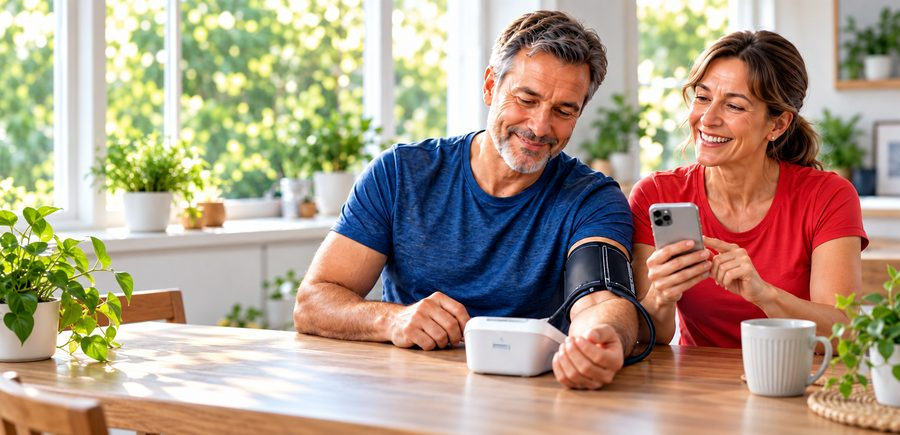
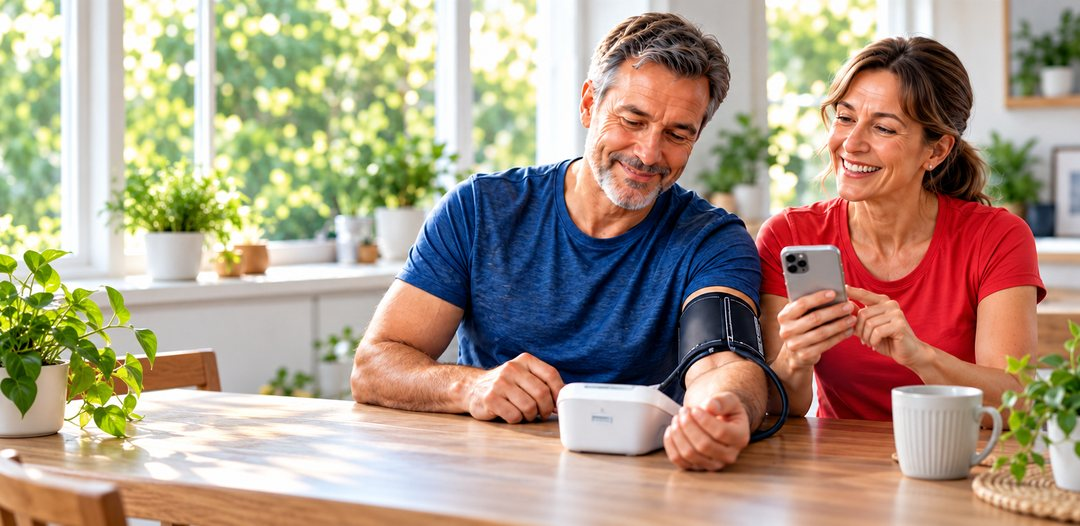
App page: 5 people photos unified to 1080x526 and shown uncut
Claude-Session: https://claude.ai/code/session_01V5Ds3NHwreF7Wtzgwk2T9U

diff --git a/app.html b/app.html
@@ -53,7 +53,7 @@
       <span class="small" style="font-size:15px" data-no>Picture 1 of 2</span>
     </div>
     <div class="col">
-      <img class="photo" src="/img/couple.jpg" alt="" width="900" height="438" loading="lazy">
+      <img class="photo" src="/img/photo-walk.jpg" alt="" width="1080" height="526" loading="lazy">
       <p class="pq">Brisk walking is a moderate-intensity form of walking. The WHO recommends 150–300 minutes a week. Keep an eye on your pace: 100+ steps a minute, or about 5 km/h. TOMfit starts you at the easier end.</p>
     </div>
   </section>
@@ -72,7 +72,7 @@
       <span class="small" style="font-size:15px" data-no>Picture 1 of 2</span>
     </div>
     <div class="col">
-      <img class="photo" src="/img/photo-health.jpg" alt="" width="900" height="438" loading="lazy">
+      <img class="photo" src="/img/photo-health.jpg" alt="" width="1080" height="526" loading="lazy">
       <p class="pq">I check my blood glucose and blood pressure at least once a day, I keep an eye on my weight and BMI, and I like to check the time between my last and first meal – all to be sure I am going in the right direction.</p>
     </div>
   </section>
@@ -91,7 +91,7 @@
       <span class="small" style="font-size:15px" data-no>Picture 1 of 2</span>
     </div>
     <div class="col">
-      <img class="photo" src="/img/photo-meds.jpg" alt="" width="900" height="438" loading="lazy">
+      <img class="photo" src="/img/photo-meds-supps.jpg" alt="" width="1080" height="526" loading="lazy">
       <p class="pq">It is not easy to remember all your medications and supplements. Your doctor or pharmacist asks “What do you take?” – and your mind goes blank. I know, because I had that problem too – but not any more. Register all your medications and supplements in the TOMfit app and have the full list in your pocket, ready when you need it.</p>
     </div>
   </section>
@@ -110,7 +110,7 @@
       <span class="small" style="font-size:15px" data-no>Picture 1 of 2</span>
     </div>
     <div class="col">
-      <img class="photo" src="/img/photo-exercise.jpg" alt="" width="900" height="438" loading="lazy">
+      <img class="photo" src="/img/photo-exercises.jpg" alt="" width="1080" height="526" loading="lazy">
       <p class="pq">The TOMfit app invites you to choose at least 3 very basic daily core exercises – 10 minutes at most – and at least 3 kettlebell exercises, 2–3 times a week. Read the safety notes and tips before you start. Charts show your progress.</p>
     </div>
   </section>
@@ -129,7 +129,7 @@
       <span class="small" style="font-size:15px" data-no>Picture 1 of 1</span>
     </div>
     <div class="col">
-      <img class="photo" src="/img/photo-settings.jpg" alt="" width="900" height="438" loading="lazy">
+      <img class="photo" src="/img/photo-settings.jpg" alt="" width="1080" height="526" loading="lazy">
       <p class="pq">The TOMfit app is very flexible – it is designed to work for you and with you. Adjust your baseline goals, switch off any part of the app you don’t use, set your kettlebell weight, and more.</p>
     </div>
   </section>

diff --git a/assets/site.css b/assets/site.css
@@ -119,7 +119,7 @@ main.pg{max-width:1200px;margin:0 auto;padding:44px 32px 64px;display:flex;flex-
 .shot img{height:470px;width:auto;max-width:none;border-radius:18px;border:2px solid #c9dcf7;box-shadow:0 10px 26px rgba(11,75,168,.2)}
 .sbtn{width:40px;height:40px;border-radius:50%;border:2px solid #0b4ba8;background:#fff;color:#0b4ba8;font-size:20px;cursor:pointer;line-height:1}
 .sbtn[disabled]{visibility:hidden}
-.photo{width:100%;height:auto;border-radius:18px;aspect-ratio:4/3;object-fit:cover}
+.photo{width:100%;height:auto;border-radius:18px;aspect-ratio:1080/526;object-fit:cover}
 .pq{margin:0;font-size:18px;line-height:1.55;font-style:italic;color:#0b3a85}
 .appnav{display:flex;justify-content:space-between;gap:16px;flex-wrap:wrap;border-top:2px solid #e2eaf6;padding-top:24px}
 .appnav .btn{font-size:17px;padding:12px 22px}
